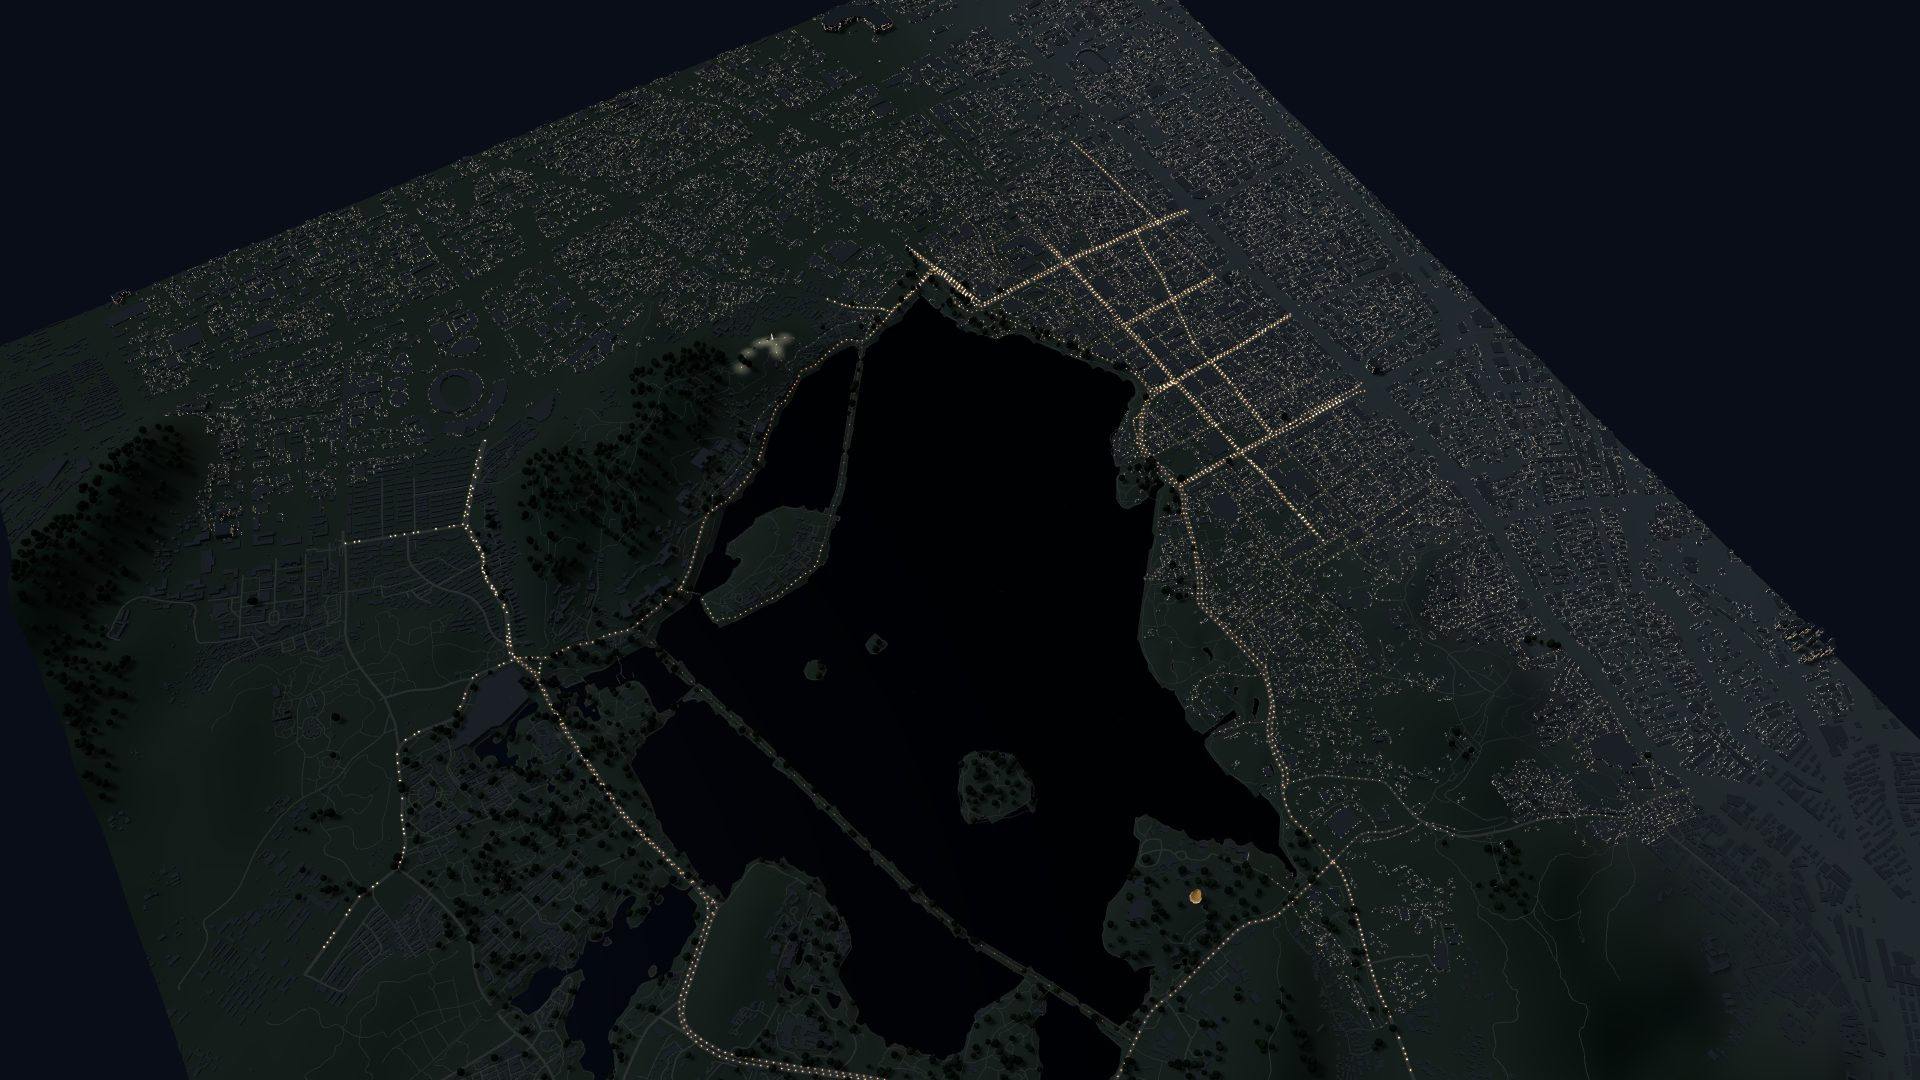
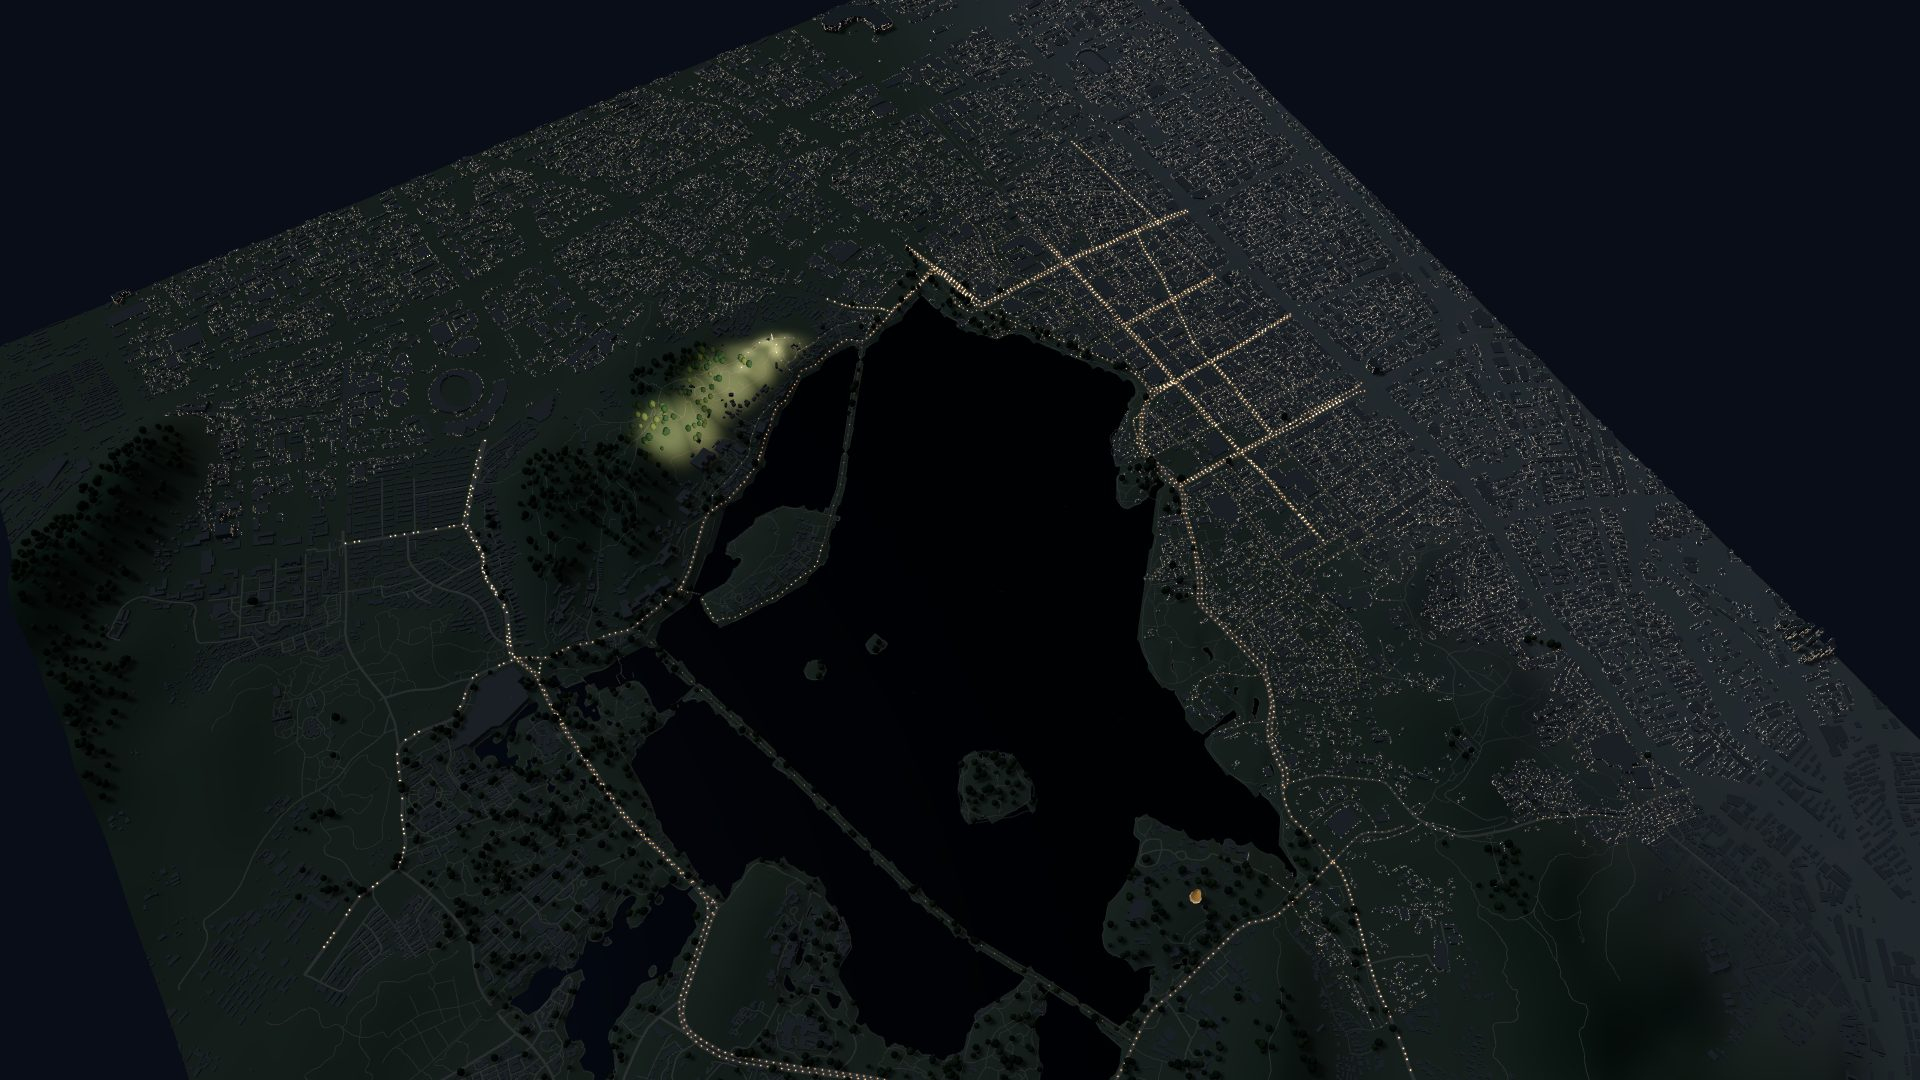
Illuminate Baoshi Hill ridge and lakeside slopes at night

Changed region(s): [[0.3125, 0.3056, 0.4375, 0.4278]]

diff --git a/westlake-3d/atlas-lighting.js b/westlake-3d/atlas-lighting.js
@@ -199,6 +199,9 @@ export function createLighting({ scene, renderer, hemisphere, sun, fill, water, 
   lanterns.visible = false;
   scene.add(lanterns);
   const landmarkMaterials = [];
+  const ridgeSampleCount = 7;
+  const ridgeSamples = { value: Array.from({ length: ridgeSampleCount }, () => new THREE.Vector2(100, 100)) };
+  const ridgeMaterials = new WeakSet();
   const facadeLights = { positions: [], styles: [] };
   let shoreline, facadeLayer, streetLayer;
 
@@ -412,12 +415,65 @@ export function createLighting({ scene, renderer, hemisphere, sun, fill, water, 
       fragmentShader: `
         uniform float night;
         varying float groundLight;
-        void main() { gl_FragColor = vec4(.84, .78, .64, groundLight * night * .31); }
+        void main() { gl_FragColor = vec4(.84, .78, .64, groundLight * night * .22); }
       `
     });
     const wash = new THREE.Mesh(geometry, material);
     wash.name = 'Baoshi_Ridge_Light_Wash';
     lanterns.add(wash);
+  }
+
+  function locateBaoshiRidge(roads, project) {
+    const ridge = roads.filter(way => ['584423052', '589666433'].includes(String(way.id)))
+      .flatMap(way => way.c.map(project)).sort((a, b) => a[0] - b[0]);
+    if (!ridge.length) return;
+    const width = ridge.at(-1)[0] - ridge[0][0];
+    ridgeSamples.value.forEach((point, i) => {
+      const x = ridge[0][0] + width * i / (ridgeSampleCount - 1);
+      let closest = ridge[0];
+      for (const candidate of ridge) {
+        if (Math.abs(candidate[0] - x) < Math.abs(closest[0] - x)) closest = candidate;
+      }
+      point.set(...closest);
+    });
+  }
+
+  function lightBaoshiSurface(material, amount) {
+    if (ridgeMaterials.has(material)) return;
+    ridgeMaterials.add(material);
+    const compile = material.onBeforeCompile;
+    const cacheKey = material.customProgramCacheKey();
+    material.customProgramCacheKey = () => cacheKey + ':baoshi-surface';
+    material.onBeforeCompile = shader => {
+      compile.call(material, shader);
+      Object.assign(shader.uniforms, { ridgeSamples, ridgeNight: night, ridgeAmount: { value: amount } });
+      shader.vertexShader = 'varying vec3 ridgePosition;\n' + shader.vertexShader.replace('#include <begin_vertex>', `
+        #include <begin_vertex>
+        ridgePosition = (modelMatrix * vec4(position, 1.0)).xyz;
+      `);
+      shader.fragmentShader = `
+        varying vec3 ridgePosition;
+        uniform vec2 ridgeSamples[${ridgeSampleCount}];
+        uniform float ridgeNight, ridgeAmount;
+        ${shader.fragmentShader}
+      `.replace('#include <emissivemap_fragment>', `
+        #include <emissivemap_fragment>
+        if (ridgeNight > .001 && ridgePosition.y > .048) {
+          float ridgeLight = 0.0;
+          for (int i = 0; i < ${ridgeSampleCount}; i++) {
+            vec2 offset = ridgePosition.xz - ridgeSamples[i] - vec2(0.0, .052);
+            vec2 falloff = offset / vec2(.162, .20);
+            float weight = .79 + .21 * cos(float(i) * 1.6 + .25);
+            ridgeLight = max(ridgeLight, exp(-dot(falloff, falloff) * 1.65) * weight);
+          }
+          vec3 slope = inverseTransformDirection(normal, viewMatrix);
+          float facing = max(0.0, dot(slope, normalize(vec3(.19, .46, .87))));
+          float hill = smoothstep(.048, .114, ridgePosition.y);
+          float intensity = ridgeNight * ridgeAmount * hill * smoothstep(.03, .88, ridgeLight);
+          totalEmissiveRadiance += diffuseColor.rgb * vec3(1.0, .81, .57) * intensity * (.23 + .77 * facing);
+        }
+      `);
+    };
   }
 
   function lightLandmark(object, color, strength) {
@@ -453,7 +509,7 @@ export function createLighting({ scene, renderer, hemisphere, sun, fill, water, 
   }
   apply('day');
   return {
-    addFacade, populateRoads, lightLandmark,
+    addFacade, populateRoads, lightLandmark, locateBaoshiRidge, lightBaoshiSurface,
     finishFacades() { facadeLayer = addPoints(facadeLights, 'Mapped_Facade_Windows'); },
     dimShoreline(material) { shoreline = material; shoreline.transparent = true; shoreline.depthWrite = false; },
     weatherSurface: weather.surface,

diff --git a/westlake-3d/app.js b/westlake-3d/app.js
@@ -362,6 +362,9 @@ function addLakeBoats() {
 
 function build(d, footprintData){
  const n=d.size,[west,south,east,north]=d.bbox;const[xmin,zmax]=project([west,south]),[xmax,zmin]=project([east,north]);
+ lighting.locateBaoshiRidge(d.roads, project);
+ lighting.lightBaoshiSurface(materials.earth, .93);
+ lighting.lightBaoshiSurface(materials.road, .49);
  const waters=d.water.map(r=>({...ringInfo(r.c.map(project)),role:r.role})),outer=waters.filter(r=>r.role==='outer'),inner=waters.filter(r=>r.role==='inner');
  inWater=(x,z)=>outer.some(r=>inPoly(x,z,r))&&!inner.some(r=>inPoly(x,z,r));
  const causewayLayout = layoutCauseways(d.roads, project);
@@ -451,7 +454,10 @@ function build(d, footprintData){
  let count=0;for(let t=0;t<55000&&count<3750;t++){const x=xmin+.03+rand()*(xmax-xmin-.06),z=zmin+.03+rand()*(zmax-zmin-.06),y=terrainAt(x,z);if(inWater(x,z)||landmarkPoints.some(p=>Math.hypot(x-p[0],z-p[1])<.05)||buildings.nearbyFootprints(x,z).some(r=>inPoly(x,z,r))||nearRoute(x,z))continue;if(!greenRings.some(r=>inPoly(x,z,r))&&!(y>.13&&x<.8))continue;const s=.009+rand()*.009;const c=treeBase.clone();c.scale(s,s*(1.15+rand()*.4),s);c.rotateY(rand()*6.28);c.translate(x,y+s+.01,z);crowns[count%3].push(c);const tr=trunkBase.clone();tr.translate(x,y+.007,z);trunks.push(tr);count++}
  for(let i=0;i<3;i++)merged(crowns[i],treeMats[i],'Canopy_'+i,groups.Trees);merged(trunks,materials.wood,'Tree_Trunks',groups.Trees);treeBase.dispose();trunkBase.dispose();
  groups.Trees.traverse(object => {
-   if (object.material?.isMeshStandardMaterial) lighting.weatherSurface(object.material, .78, .55);
+   if (object.material?.isMeshStandardMaterial) {
+     lighting.weatherSurface(object.material, .78, .55);
+     lighting.lightBaoshiSurface(object.material, 1.15);
+   }
  });
  // Named landmarks are deliberately stylized volumes, separate and editable in Blender.
  function pagoda(name,c,levels,tall,radius){const g=new THREE.Group();g.name=name;const[x,z]=project(c),y=terrainAt(x,z);g.position.set(x,y+.006,z);groups.Landmarks.add(g);const add=(geo,m,n,h)=>{geo.translate(0,h,0);return mesh(geo,m,n,g)};add(new THREE.CylinderGeometry(radius*1.3,radius*1.4,.008,8),materials.stone,'Stone_Platform',.004);for(let i=0;i<levels;i++){const h=tall/levels,rad=radius*(1-i/(levels+2)*.52);add(new THREE.CylinderGeometry(rad*.75,rad*.8,h*.72,8),i===0?materials.stone:materials.wood,'Tower_Level_'+(i+1),.008+i*h+h*.36);add(new THREE.CylinderGeometry(rad*.45,rad*1.14,h*.23,8),materials.roof,'Eaves_'+(i+1),.008+i*h+h*.83);add(new THREE.CylinderGeometry(rad*.85,rad*.85,.002,8),materials.gold,'Balcony_'+(i+1),.008+i*h+.004)}add(new THREE.ConeGeometry(radius*.2,.025,8),materials.gold,'Finial',tall+.022);return g}
@@ -484,7 +490,9 @@ function build(d, footprintData){
  rock.scale(.010, .005, .007);
  rock.rotateY(.38);
  rock.translate(rockX - .005, terrainAt(rockX - .005, rockZ + .011) + .003, rockZ + .011);
- mesh(rock, mat('Baoshi_Exposed_Rock', 0x978676), 'Hama_Peak_Rock_Concept', groups.Landmarks);
+ const exposedRock = mat('Baoshi_Exposed_Rock', 0x978676);
+ lighting.lightBaoshiSurface(exposedRock, 1.19);
+ mesh(rock, exposedRock, 'Hama_Peak_Rock_Concept', groups.Landmarks);
  const lanterns = buildStoneLanterns({ project, mesh, mat, materials });
  groups.Landmarks.add(lanterns.group);
  waterfrontViews.set('moon', [
